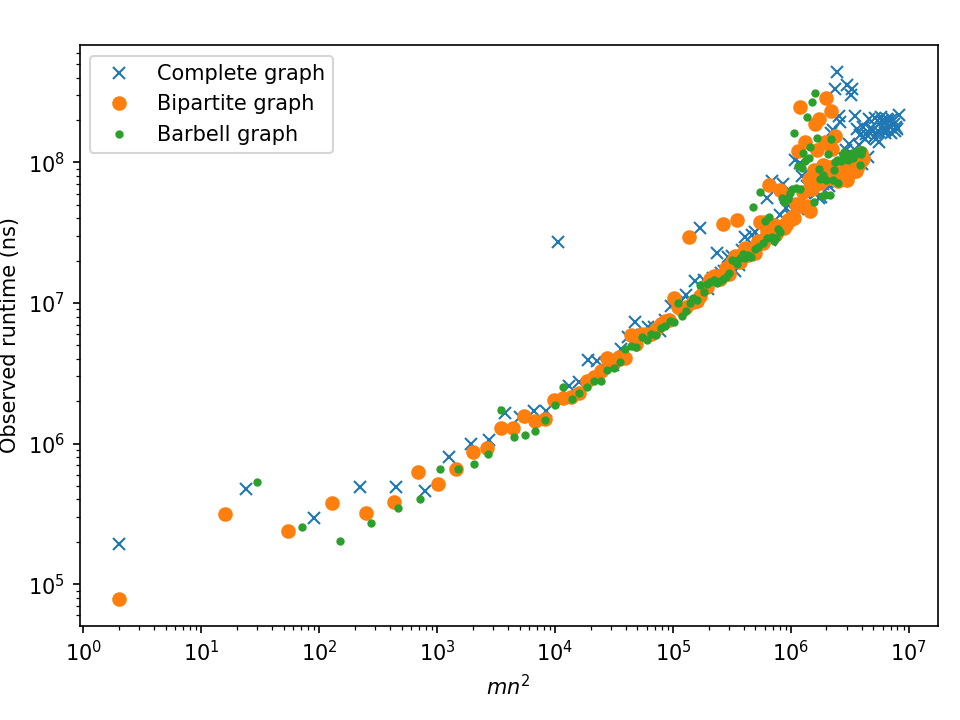
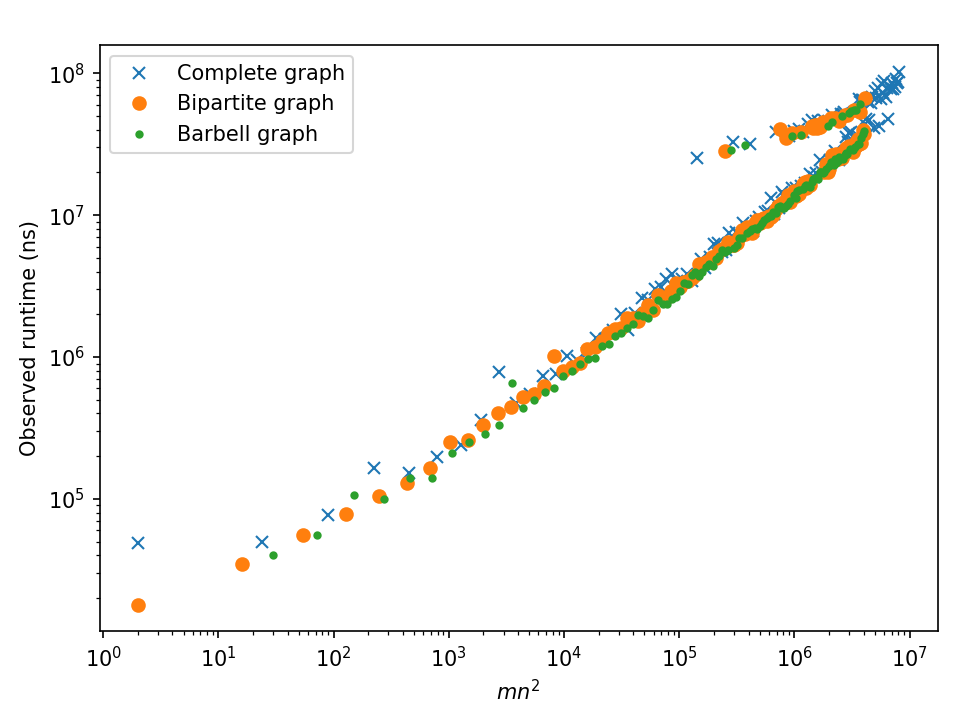
fixed bug in Alg_Dinic_LCT

diff --git a/Alg_Dinic_LCT.py b/Alg_Dinic_LCT.py
@@ -5,34 +5,35 @@ from scipy.optimize import linprog
 # vertex index should be other than 0
 
 def max_flow(G: nx.DiGraph, s, t):
+	Null = -1
 	ans = 0
 	R = build_residual_network(G, "capacity")
 	dist = {}
-	lsn = {0 : 0}
-	rsn = {0 : 0}
-	val = {0 : R.graph["inf"]}
-	add = {0 : 0}
-	mn = {0 : R.graph["inf"]}
-	argmn = {0: 0}
+	lsn = {Null : Null}
+	rsn = {Null : Null}
+	val = {Null : R.graph["inf"]}
+	add = {Null : 0}
+	mn = {Null : R.graph["inf"]}
+	argmn = {Null: 0}
 	Id = {}
-	fa = {0: 0}
+	fa = {Null: Null}
 	for u in R:
-		lsn[u] = 0
-		rsn[u] = 0
+		lsn[u] = Null
+		rsn[u] = Null
 		val[u] = R.graph["inf"]
 		add[u] = 0
 		mn[u] = R.graph["inf"]
 		argmn[u] = None
 		Id[u] = None
-		fa[u] = 0 
+		fa[u] = Null 
 		for e in R[u].values():
 			e["flow"] = 0
 
 	def Top(x):
-		return (not fa[x]) or (lsn[fa[x]]!=x) and (rsn[fa[x]]!=x)
+		return (fa[x] == Null) or (lsn[fa[x]]!=x) and (rsn[fa[x]]!=x)
 
 	def Plus(x, v):
-		if (x == 0):
+		if (x == Null):
 			return
 		add[x] += v
 		val[x] += v
@@ -71,7 +72,7 @@ def max_flow(G: nx.DiGraph, s, t):
 				rsn[z] = x
 		fa[x] = z
 		lsn[y] = rsn[x]
-		if (rsn[x]): fa[rsn[x]] = y
+		if (rsn[x] != Null): fa[rsn[x]] = y
 		rsn[x] = y
 		fa[y] = x
 		Up(y)
@@ -86,7 +87,7 @@ def max_flow(G: nx.DiGraph, s, t):
 				rsn[z] = x
 		fa[x] = z
 		rsn[y] = lsn[x]
-		if (lsn[x]): fa[lsn[x]] = y
+		if (lsn[x] != Null): fa[lsn[x]] = y
 		lsn[x] = y
 		fa[y] = x
 		Up(y)
@@ -127,8 +128,8 @@ def max_flow(G: nx.DiGraph, s, t):
 		Up(x)
 
 	def Access(x):
-		y = 0
-		while (x != 0):
+		y = Null
+		while (x != Null):
 			Splay(x)
 			rsn[x] = y
 			Up(x)
@@ -139,7 +140,7 @@ def max_flow(G: nx.DiGraph, s, t):
 	def Root(x):
 		Access(x)
 		Splay(x)
-		while (lsn[x]):
+		while (lsn[x] != Null):
 			x = lsn[x]
 			Down(x)
 		Splay(x)
@@ -148,17 +149,17 @@ def max_flow(G: nx.DiGraph, s, t):
 	def Cut(x):
 		Access(x)
 		Splay(x)
-		fa[lsn[x]] = 0
-		lsn[x] = 0
+		fa[lsn[x]] = Null
+		lsn[x] = Null
 		Up(x)
 
 	def DeleteZero(x):
 		Down(x)
-		while (rsn[x]) and (mn[rsn[x]] == 0):
+		while (rsn[x]!=Null) and (mn[rsn[x]] == 0):
 			x = argmn[rsn[x]]
 			Splay(x)
-			fa[lsn[x]] = 0
-			lsn[x] = 0
+			fa[lsn[x]] = Null
+			lsn[x] = Null
 			Up(x)
 
 	def dfs(u):
@@ -208,9 +209,9 @@ def max_flow(G: nx.DiGraph, s, t):
 		for u in R:
 			Splay(u)
 			Down(u)
-			lsn[u] = 0
-			rsn[u] = 0
-			fa[u] = 0
+			lsn[u] = Null
+			rsn[u] = Null
+			fa[u] = Null
 			add[u] = 0
 			Id[u] = None
 			val[u] = R.graph["inf"]

diff --git a/unit_capacity_comparisons.py b/unit_capacity_comparisons.py
@@ -15,8 +15,8 @@ for i, Alg in enumerate(Algs):
     barbell_vals = []
     for n in np.arange(2, 256, 2):
         U = 1
-        if alg_names[i] == "FF" and n >= 16: #FF takes forever for n >= 16 for some reason
-            break
+        #if alg_names[i] == "FF" and n >= 16: #FF takes forever for n >= 16 for some reason
+        #    break
         G, s, t = graph_classes.complete_graph(n)
         m = len(G.edges)
         theoretical = m * n * U

diff --git a/Alg_FF.py b/Alg_FF.py
@@ -3,6 +3,7 @@ from networkx.algorithms.flow.utils import build_residual_network
 from scipy.optimize import linprog
 
 def max_flow(G: nx.DiGraph, s, t):
+	return 0
 	ans = 0
 	R = build_residual_network(G, "capacity")
 	path = []
